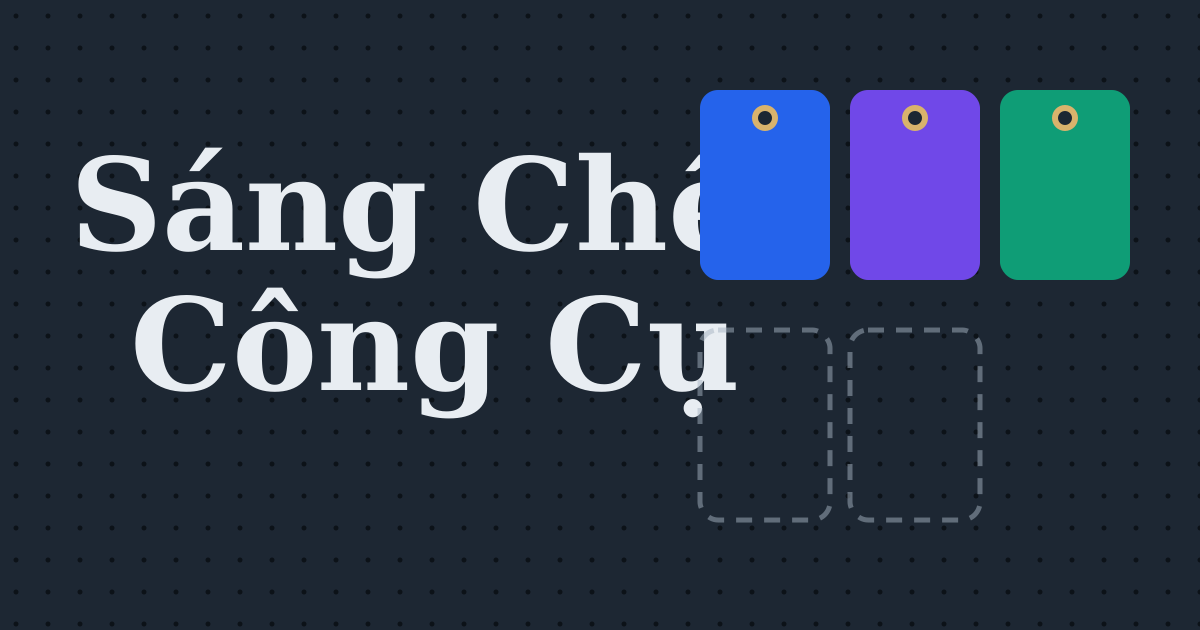
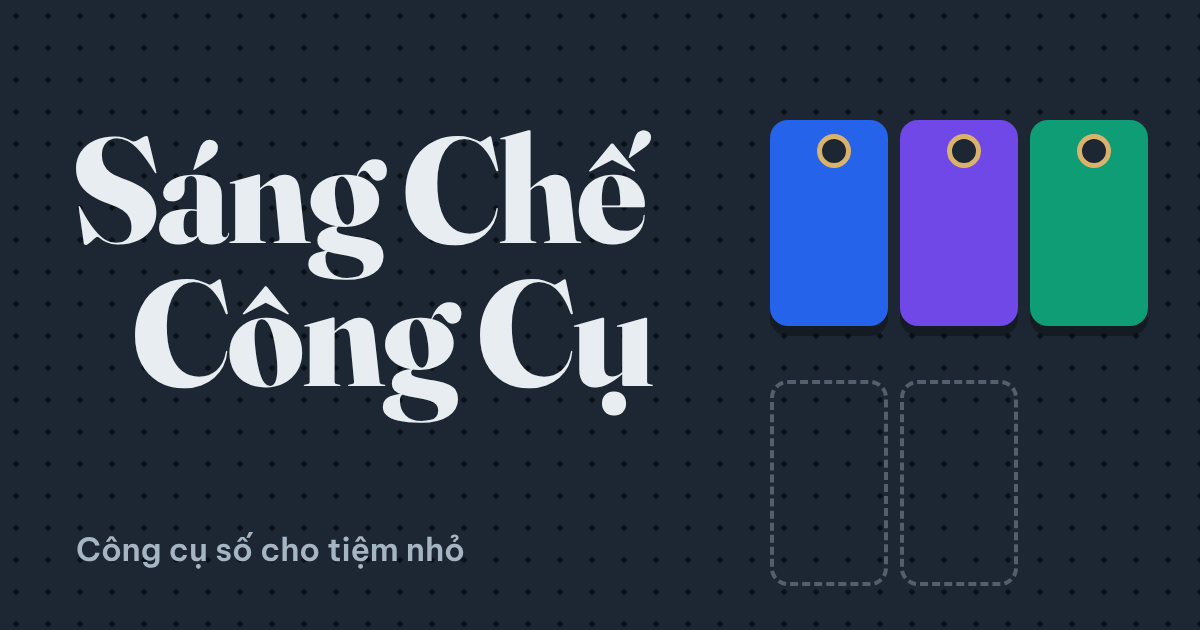
Thêm dải liên kết, bỏ khối liên hệ, iframe tải theo yêu cầu trên điện thoại, làm lại ảnh og, bỏ manifest
Claude-Session: https://claude.ai/code/session_01RLCSxeoPrTxVxG5ebMJ999

diff --git a/index.html b/index.html
@@ -10,7 +10,6 @@
 <link rel="canonical" href="https://sangchecongcu.vercel.app/">
 <link rel="icon" href="favicon.svg" type="image/svg+xml">
 <link rel="apple-touch-icon" href="apple-touch-icon.png">
-<link rel="manifest" href="manifest.webmanifest">
 <meta property="og:type" content="website">
 <meta property="og:url" content="https://sangchecongcu.vercel.app/">
 <meta property="og:site_name" content="Người Sáng Chế">
@@ -44,7 +43,13 @@ body{margin:0;background:var(--wall) radial-gradient(circle,var(--hole) 0 2.5px,
 .in{max-width:76rem;margin:0 auto;padding-left:max(var(--pad),env(safe-area-inset-left));padding-right:max(var(--pad),env(safe-area-inset-right))}
 a:focus-visible,button:focus-visible{outline:3px solid var(--ink);outline-offset:4px}
 
-header{padding:calc(env(safe-area-inset-top,0px) + 2.5rem) 0 2rem}
+/* Dải liên kết chung giữa hai trang */
+.site{display:flex;flex-wrap:wrap;gap:1.5rem;padding-top:calc(env(safe-area-inset-top,0px) + .75rem);font:600 .95rem/1.2 var(--sans)}
+.site a{display:inline-flex;align-items:center;min-height:2.75rem;color:var(--mute);text-decoration:none;border-bottom:2px solid transparent}
+.site a:hover{color:var(--ink)}
+.site a[aria-current]{color:var(--ink);border-bottom-color:var(--brass)}
+
+header{padding:1.25rem 0 2rem}
 h1{margin:0;font:800 clamp(3.4rem,17vw,9rem)/.92 var(--serif);letter-spacing:-.02em}
 h1 span{display:block}
 h1 span+span{margin-left:.4em}
@@ -72,8 +77,12 @@ button.slot{cursor:pointer}
 
 /* Khung dùng thử: chạy app thật */
 .stage{--c:var(--mute);display:grid;gap:1.5rem;justify-items:center;scroll-margin-top:1rem}
+.stage[hidden]{display:none}
 .phone{position:relative;width:min(100%,21rem);aspect-ratio:9/18.5;border:.6rem solid #0a0f14;border-radius:2.2rem;background:#0a0f14;overflow:hidden;box-shadow:0 0 0 3px color-mix(in srgb,var(--c) 70%,transparent)}
 .phone iframe{position:absolute;inset:0;width:100%;height:100%;border:0;border-radius:1.6rem;background:#fff}
+/* Màn hình hẹp: chỉ tải bản xem thử khi khách bấm */
+.phone .go{position:absolute;inset:0;width:100%;display:grid;place-content:center;gap:.6rem;padding:1.5rem;border:0;border-radius:1.6rem;background:var(--wall);color:var(--ink);font:800 1.2rem/1.25 var(--sans);text-align:center;cursor:pointer}
+.phone .go small{color:var(--mute);font:500 .9rem/1.4 var(--sans)}
 .info{width:min(100%,21rem);padding-left:1rem;border-left:.5rem solid var(--c)}
 .info h2{margin:0;font:800 clamp(2rem,9vw,2.8rem)/1.05 var(--serif)}
 .info p{margin:.5rem 0 0}
@@ -88,11 +97,9 @@ button.slot{cursor:pointer}
 .ask h2{margin:0;font:800 clamp(2.2rem,10vw,3.6rem)/1 var(--serif)}
 .ask p{margin:.9rem 0 0;max-width:30rem;color:var(--mute)}
 .ask .btn{display:inline-flex;--c:var(--brass);color:#1d2733}
-.ask .btn[hidden]{display:none}
-.back{display:block;width:fit-content;margin-top:1.5rem;color:var(--mute);text-underline-offset:.25em}
 
 @media (min-width:900px){
-  header{padding-top:calc(env(safe-area-inset-top,0px) + 4rem)}
+  header{padding-top:2.5rem}
   main{grid-template-columns:minmax(0,1.05fr) minmax(0,.95fr);column-gap:4.5rem;align-items:start}
   .stage{position:sticky;top:1.5rem}
   .ask .in{display:grid;grid-template-columns:1fr 1fr;column-gap:4.5rem;align-items:end}
@@ -100,6 +107,7 @@ button.slot{cursor:pointer}
 </style>
 </head>
 <body>
+<nav class="site in" aria-label="Các trang"><a href="https://kientaomohinh.vercel.app/">Kẻ Kiến Tạo</a><a href="https://sangchecongcu.vercel.app/" aria-current="page">Người Sáng Chế</a></nav>
 <header><div class="in">
   <h1><span>Sáng Chế</span><span>Công Cụ</span></h1>
   <p class="sub">Công cụ số cho tiệm nhỏ. Bấm một món để dùng thử ngay.</p>
@@ -115,25 +123,23 @@ button.slot{cursor:pointer}
       <span class="tag" id="tg"></span>
       <a class="btn" id="open" href="#" target="_blank" rel="noopener">Mở toàn màn hình</a>
       <p class="hint">Mở xong, chọn Thêm vào màn hình chính để cài về máy.</p>
+      <p class="hint">Khung xem thử chỉ để chạy thử: dữ liệu nhập ở đây không lưu sang app mở riêng.</p>
     </div>
   </section>
 </main>
 
 <footer class="ask"><div class="in">
   <div>
-    <h2>Cần công cụ gì?</h2>
-    <p>Kể một việc ở tiệm đang làm bằng tay. Món treo tiếp theo có thể bắt đầu từ đó.</p>
+    <h2>Xem thêm mô hình</h2>
+    <p>Kẻ Kiến Tạo ghi lại những mô hình đã dựng và đang chạy thật.</p>
   </div>
   <div>
-    <a class="btn" id="contact" href="#" target="_blank" rel="noopener" hidden>Nhắn Quang</a>
-    <a class="back" href="https://kientaomohinh.vercel.app/">Xem các mô hình ở Kẻ Kiến Tạo</a>
+    <a class="btn" href="https://kientaomohinh.vercel.app/">Sang Kẻ Kiến Tạo</a>
   </div>
 </div></footer>
 
 <script>
-/* Thêm công cụ mới: thêm một khối vào TOOLS (id không dấu, không khoảng trắng). Bảng tự treo thêm một món và dời chỗ trống.
-   CONTACT: link Zalo hoặc số điện thoại dạng "https://zalo.me/..." để hiện nút Nhắn Quang. Để trống thì ẩn nút. */
-var CONTACT="";
+/* Thêm công cụ mới: thêm một khối vào TOOLS (id không dấu, không khoảng trắng). Bảng tự treo thêm một món và dời chỗ trống. */
 var TOOLS=[
 {
   id:"dat-hang", name:"Đặt hàng",
@@ -177,30 +183,46 @@ for(var k=TOOLS.length%2?1:2;k>0;k--){
   slots.appendChild(e);
 }
 
+var wide=matchMedia("(min-width:900px)");
+
+function loadFrame(t){
+  var f=document.createElement("iframe");
+  f.title="Dùng thử công cụ "+t.name;
+  f.setAttribute("sandbox","allow-scripts allow-same-origin allow-forms allow-modals allow-downloads allow-popups");
+  f.src=t.url;
+  phone.replaceChildren(f);
+}
+function showGo(t){
+  var b=document.createElement("button");
+  b.type="button";b.className="go";
+  b.innerHTML='Chạy thử ngay trong trang<small>Hoặc bấm Mở toàn màn hình bên dưới</small>';
+  b.addEventListener("click",function(){loadFrame(t)});
+  phone.replaceChildren(b);
+}
+
 function pick(id,user){
   var t=TOOLS.filter(function(x){return x.id===id})[0];
   if(!t||t===cur)return;
   cur=t;
+  stage.hidden=false;
   [].forEach.call(slots.querySelectorAll("button.slot"),function(b){b.setAttribute("aria-pressed",b.getAttribute("data-id")===id)});
   stage.style.setProperty("--c",t.color);
   document.getElementById("nm").textContent=t.name;
   document.getElementById("ln").textContent=t.line;
   document.getElementById("tg").textContent=t.tag;
   document.getElementById("open").href=t.url;
-  var f=document.createElement("iframe");
-  f.title="Dùng thử công cụ "+t.name;
-  f.setAttribute("sandbox","allow-scripts allow-same-origin allow-forms allow-modals allow-downloads allow-popups");
-  f.src=t.url;
-  phone.replaceChildren(f);
+  if(wide.matches)loadFrame(t);else showGo(t);
   history.replaceState(null,"","#"+id);
-  if(user&&innerWidth<900)stage.scrollIntoView({behavior:calm?"auto":"smooth",block:"start"});
+  if(user&&!wide.matches)stage.scrollIntoView({behavior:calm?"auto":"smooth",block:"start"});
 }
 
-var ct=document.getElementById("contact");
-if(CONTACT){ct.href=CONTACT;ct.hidden=false}
-
 pick(location.hash.slice(1),false);
-if(!cur)pick(TOOLS[0].id,false);
+if(!cur){if(wide.matches)pick(TOOLS[0].id,false);else stage.hidden=true}
+wide.addEventListener("change",function(){
+  if(!wide.matches)return;
+  if(!cur)pick(TOOLS[0].id,false);
+  else if(!phone.querySelector("iframe"))loadFrame(cur);
+});
 addEventListener("hashchange",function(){pick(location.hash.slice(1),false)});
 </script>
 </body>
